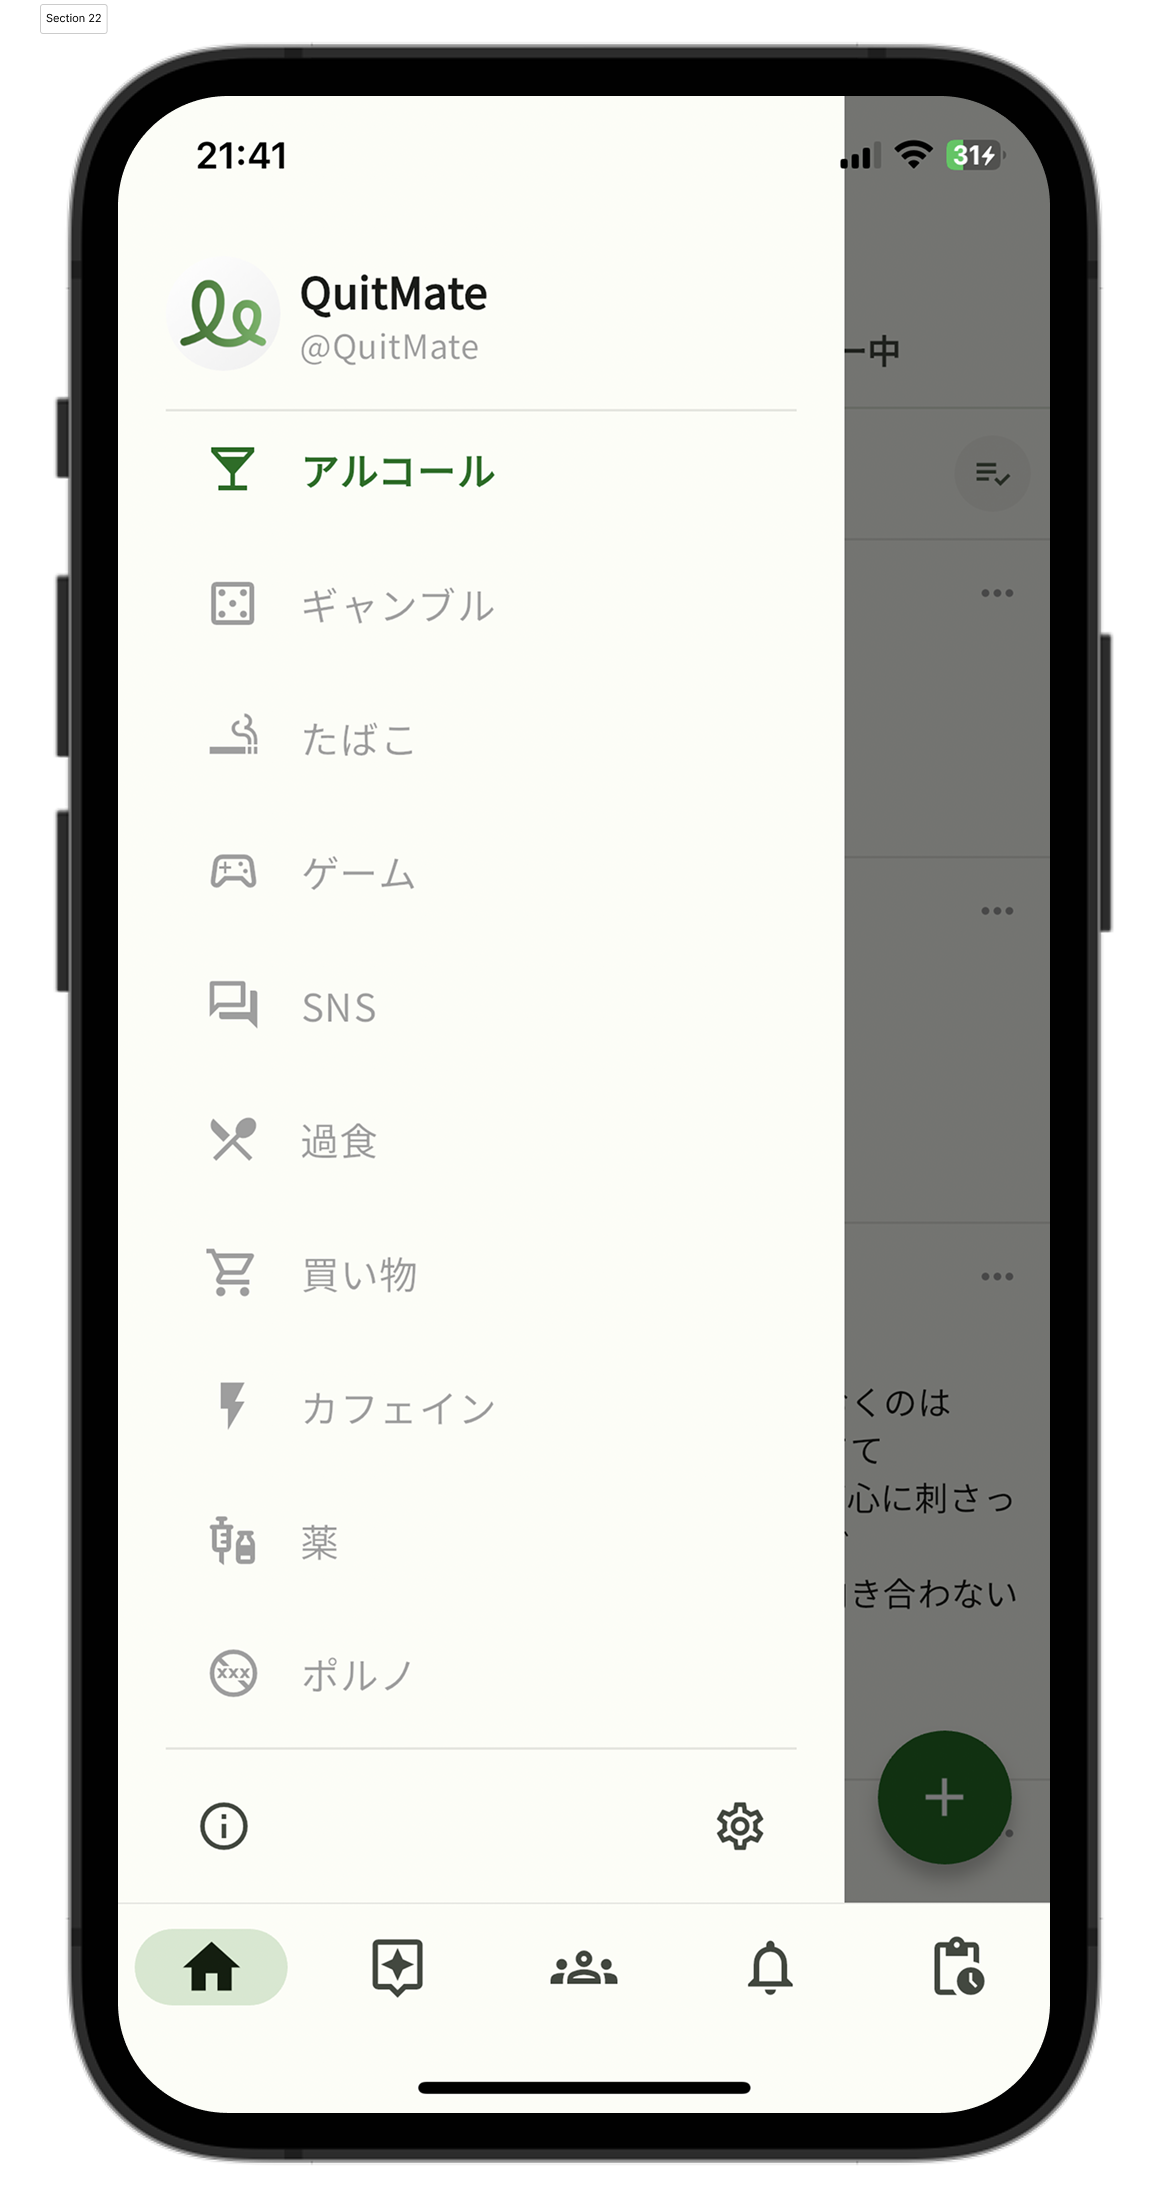
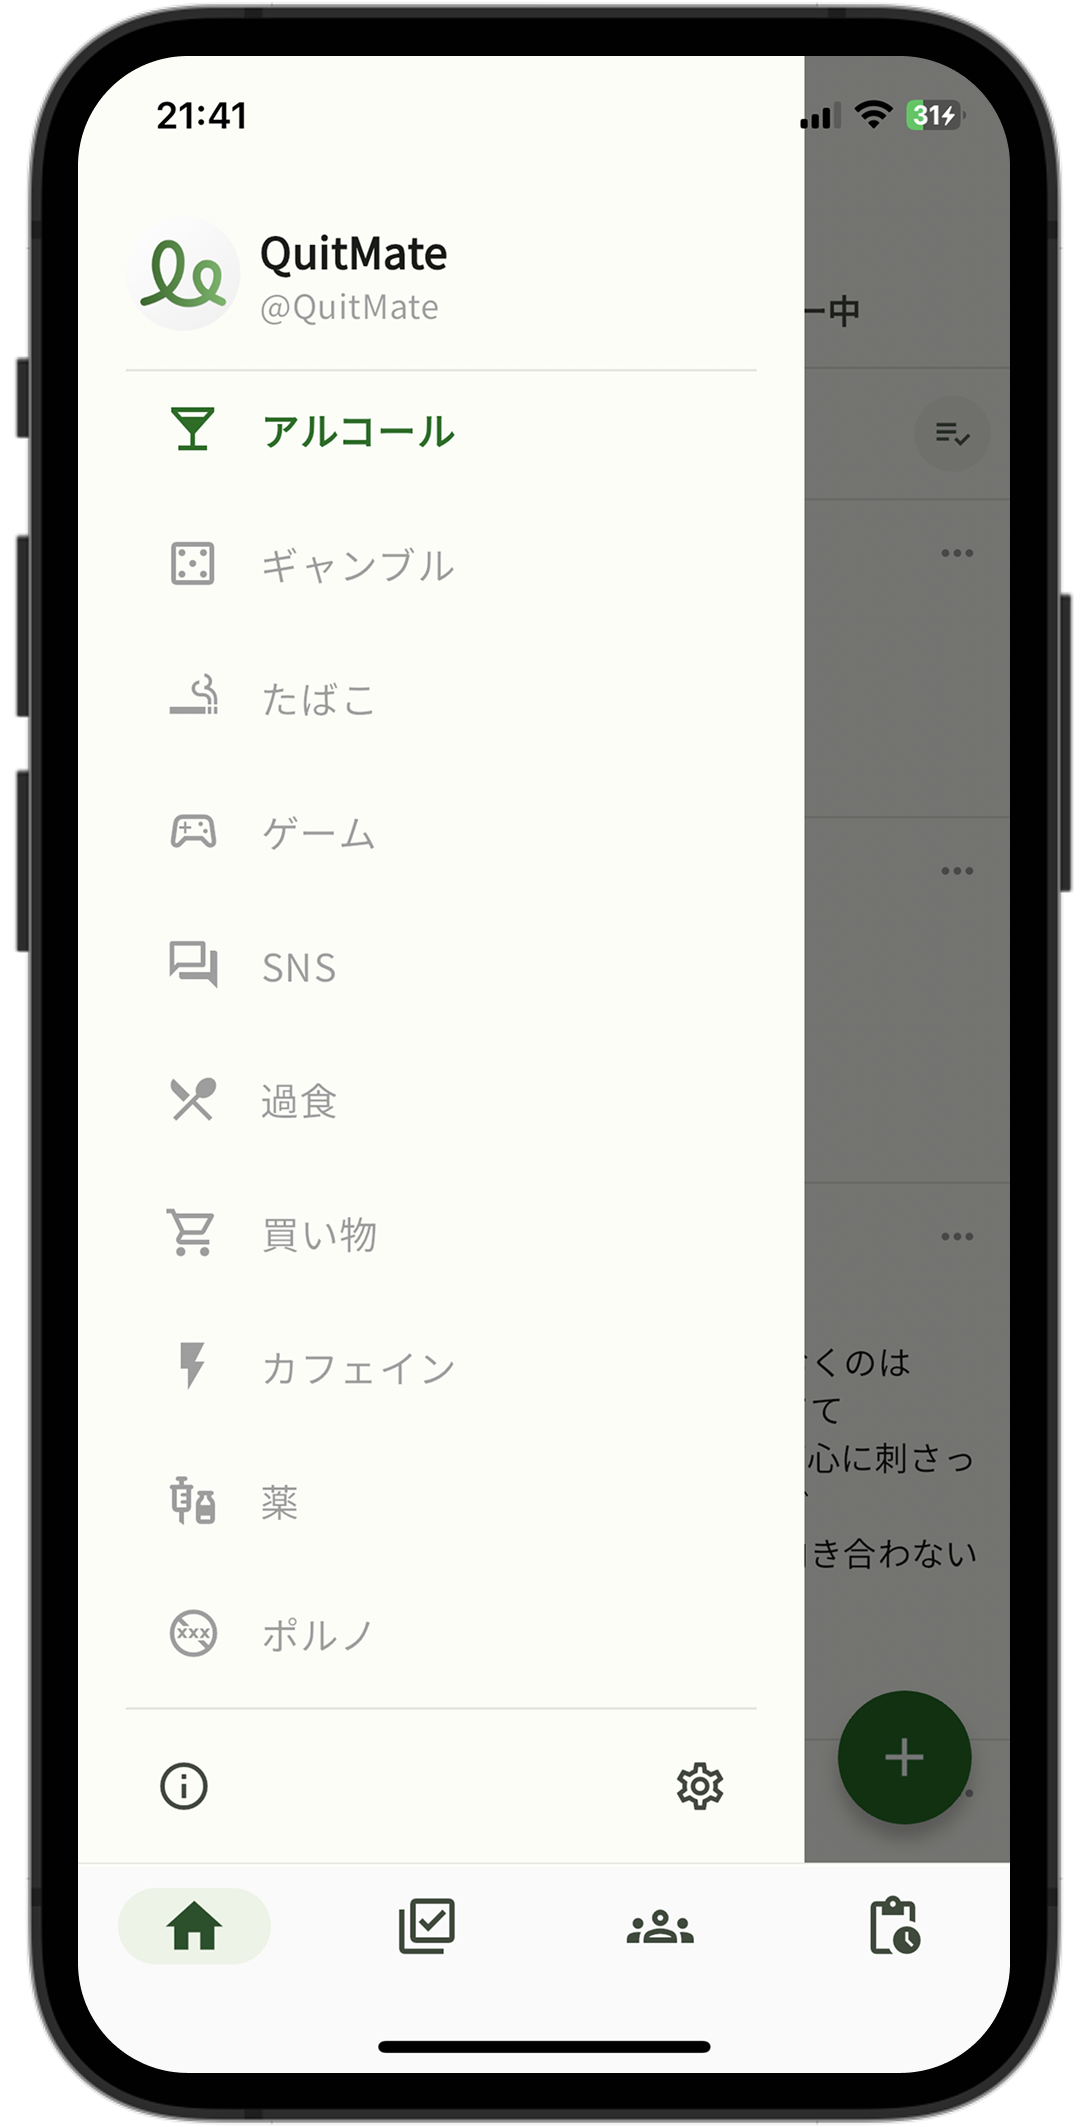
chore: スクリーンショット調整

diff --git a/apps/lp/src/components/sections/screenshot-viewer.tsx b/apps/lp/src/components/sections/screenshot-viewer.tsx
@@ -1,0 +1,168 @@
+"use client";
+
+import Image from "next/image";
+import { useState, useEffect, useRef } from "react";
+
+type Screenshot = {
+  src: string;
+  alt: string;
+};
+
+type ScreenshotViewerProps = {
+  screenshots: Screenshot[];
+  className?: string;
+};
+
+export const ScreenshotViewer = ({
+  screenshots,
+  className = "",
+}: ScreenshotViewerProps) => {
+  const [currentScreenshot, setCurrentScreenshot] = useState(0);
+  const [isMobile, setIsMobile] = useState(false);
+  const [touchStart, setTouchStart] = useState(0);
+  const [touchEnd, setTouchEnd] = useState(0);
+  const [isAnimating, setIsAnimating] = useState(false);
+  const containerRef = useRef<HTMLDivElement>(null);
+
+  // 画面サイズ検出のためのuseEffect
+  useEffect(() => {
+    const checkIfMobile = () => {
+      setIsMobile(window.innerWidth < 768);
+    };
+
+    checkIfMobile();
+    window.addEventListener("resize", checkIfMobile);
+
+    return () => {
+      window.removeEventListener("resize", checkIfMobile);
+    };
+  }, []);
+
+  const nextScreenshot = () => {
+    if (isAnimating) return;
+    setIsAnimating(true);
+    setCurrentScreenshot((prev) => (prev + 1) % screenshots.length);
+    setTimeout(() => {
+      setIsAnimating(false);
+    }, 300);
+  };
+
+  const prevScreenshot = () => {
+    if (isAnimating) return;
+    setIsAnimating(true);
+    setCurrentScreenshot(
+      (prev) => (prev - 1 + screenshots.length) % screenshots.length,
+    );
+    setTimeout(() => {
+      setIsAnimating(false);
+    }, 300);
+  };
+
+  // スワイプ操作のハンドラー
+  const handleTouchStart = (e: React.TouchEvent) => {
+    setTouchStart(e.targetTouches[0].clientX);
+  };
+
+  const handleTouchMove = (e: React.TouchEvent) => {
+    setTouchEnd(e.targetTouches[0].clientX);
+  };
+
+  const handleTouchEnd = () => {
+    if (!touchStart || !touchEnd) return;
+
+    const distance = touchStart - touchEnd;
+    const minSwipeDistance = 50;
+
+    if (distance > minSwipeDistance) {
+      // 左スワイプ (次へ)
+      nextScreenshot();
+    } else if (distance < -minSwipeDistance) {
+      // 右スワイプ (前へ)
+      prevScreenshot();
+    }
+
+    setTouchStart(0);
+    setTouchEnd(0);
+  };
+
+  return (
+    <div className={`relative size-full ${className}`}>
+      <div
+        ref={containerRef}
+        className="relative size-full overflow-visible"
+        onTouchStart={handleTouchStart}
+        onTouchMove={handleTouchMove}
+        onTouchEnd={handleTouchEnd}
+      >
+        {/* スクリーンショット画像 */}
+        <Image
+          src={screenshots[currentScreenshot].src}
+          alt={screenshots[currentScreenshot].alt}
+          fill
+          className={`object-contain transition-opacity duration-300 ${isAnimating ? "opacity-80" : "opacity-100"}`}
+          priority
+        />
+
+        {/* ページインジケーター - 画像の下に配置 */}
+        <div className="absolute inset-x-0 -bottom-8 z-10 flex justify-center gap-2 py-2">
+          {screenshots.map((_, index) => (
+            <button
+              key={index}
+              className={`size-2 rounded-full shadow-sm transition-colors ${
+                index === currentScreenshot ? "bg-green-800" : "bg-gray-200"
+              }`}
+              onClick={() => {
+                setCurrentScreenshot(index);
+              }}
+              aria-label={`スクリーンショット ${String(index + 1)}を表示`}
+            />
+          ))}
+        </div>
+
+        {/* 前後ボタン - PCの場合のみ表示 */}
+        {screenshots.length > 1 && !isMobile && (
+          <>
+            <button
+              onClick={prevScreenshot}
+              className="absolute -left-2 top-1/2 z-10 flex size-10 -translate-y-1/2 items-center justify-center rounded-full bg-white text-gray-800 shadow-lg transition-all hover:bg-gray-100 active:scale-95 active:bg-gray-200"
+              aria-label="前のスクリーンショット"
+            >
+              <svg
+                xmlns="http://www.w3.org/2000/svg"
+                width="20"
+                height="20"
+                viewBox="0 0 24 24"
+                fill="none"
+                stroke="currentColor"
+                strokeWidth="2"
+                strokeLinecap="round"
+                strokeLinejoin="round"
+              >
+                <path d="M15 18l-6-6 6-6" />
+              </svg>
+            </button>
+            <button
+              onClick={nextScreenshot}
+              className="absolute -right-2 top-1/2 z-10 flex size-10 -translate-y-1/2 items-center justify-center rounded-full bg-white text-gray-800 shadow-lg transition-all hover:bg-gray-100 active:scale-95 active:bg-gray-200"
+              aria-label="次のスクリーンショット"
+            >
+              <svg
+                xmlns="http://www.w3.org/2000/svg"
+                width="20"
+                height="20"
+                viewBox="0 0 24 24"
+                fill="none"
+                stroke="currentColor"
+                strokeWidth="2"
+                strokeLinecap="round"
+                strokeLinejoin="round"
+              >
+                <path d="M9 18l6-6-6-6" />
+              </svg>
+            </button>
+          </>
+        )}
+      </div>
+    </div>
+  );
+};

diff --git a/apps/lp/src/components/sections/hero.tsx b/apps/lp/src/components/sections/hero.tsx
@@ -1,10 +1,28 @@
 "use client";
 
-import Image from "next/image";
-
+import { ScreenshotViewer } from "../sections/screenshot-viewer";
 import { StoreBadges } from "../sections/store-badge";
 
 export const Hero = () => {
+  const screenshots = [
+    {
+      src: "/images/screenshot-stories.png",
+      alt: "QuitMateアプリのストーリー画面",
+    },
+    {
+      src: "/images/screenshot-categories.png",
+      alt: "QuitMateアプリのカテゴリ画面",
+    },
+    {
+      src: "/images/screenshot-program.png",
+      alt: "QuitMateアプリのプログラム画面",
+    },
+    {
+      src: "/images/screenshot-habits.png",
+      alt: "QuitMateアプリの習慣画面",
+    },
+  ];
+
   return (
     <section className="flex items-center justify-center bg-gradient-to-b from-[#f8fbf7] to-white p-8 md:py-16">
       <div className="flex w-full max-w-5xl flex-col items-center justify-between gap-2 md:flex-row md:gap-6">
@@ -12,22 +30,16 @@ export const Hero = () => {
           <h1 className="mb-2 text-3xl font-bold leading-tight text-gray-800 md:mb-4 md:text-4xl lg:text-4xl">
             共になら、やめられる
           </h1>
-          <p className="mb-4 text-lg md:text-xl lg:text-2xl text-gray-600 md:mb-6">
-            禁酒・禁ギャンブル・禁煙・禁欲等
+          <p className="mb-4 text-lg text-gray-600 md:mb-6 md:text-xl lg:text-2xl">
+            禁酒・禁ギャンブル・禁煙・禁欲など
             <br />
             依存症を克服するための匿名SNSアプリ
           </p>
           <StoreBadges size="xl" />
         </div>
 
-        <div className="relative mt-4 h-[550px] w-full md:mt-0 md:w-[350px] lg:w-[400px]">
-          <Image
-            src="/images/screenshot-stories.png"
-            alt="QuitMateアプリのスクリーンショット"
-            fill
-            className="object-contain drop-shadow-xl"
-            priority
-          />
+        <div className="relative mt-4 h-[600px] w-full md:mt-0 md:w-[380px] lg:w-[450px]">
+          <ScreenshotViewer screenshots={screenshots} />
         </div>
       </div>
     </section>

diff --git a/apps/lp/src/components/sections/testimonials.tsx b/apps/lp/src/components/sections/testimonials.tsx
@@ -27,22 +27,22 @@ const testimonials = [
 
 export const Testimonials = () => {
   return (
-    <section className="py-20 px-6 bg-[#f8fbf7] text-center">
-      <h2 className="text-3xl md:text-4xl font-semibold mb-12 text-gray-800">
+    <section className="bg-[#f8fbf7] px-6  py-20 text-center">
+      <h2 className="mb-12 text-3xl font-semibold text-gray-800 md:text-4xl">
         QuitMateを使ってよかったこと
       </h2>
-      <div className="grid grid-cols-1 md:grid-cols-3 gap-6 max-w-6xl mx-auto">
+      <div className="mx-auto grid max-w-6xl grid-cols-1 gap-6 md:grid-cols-3">
         {testimonials.map((item, index) => (
           <Card
             key={index}
-            className="text-left h-full bg-white border-none shadow-md"
+            className="h-full border-none bg-white text-left shadow-md"
           >
             <CardContent className="p-6">
-              <div className="flex justify-center mb-4">
+              <div className="mb-4 flex justify-center">
                 {[...Array(5)].map((_, i) => (
                   <svg
                     key={i}
-                    className="w-5 h-5 text-yellow-400"
+                    className="size-5 text-yellow-400"
                     fill="currentColor"
                     viewBox="0 0 20 20"
                   >
@@ -50,13 +50,13 @@ export const Testimonials = () => {
                   </svg>
                 ))}
               </div>
-              <h3 className="text-lg font-semibold text-gray-800 mb-2">
+              <h3 className="mb-2 text-lg font-semibold text-gray-800">
                 {item.title}
               </h3>
-              <p className="text-gray-600 text-sm mb-4">
+              <p className="mb-4 text-sm text-gray-600">
                 &quot;{item.message}&quot;
               </p>
-              <p className="text-sm text-right text-gray-700 font-semibold">
+              <p className="text-right text-sm font-semibold text-gray-700">
                 — {item.name}
               </p>
             </CardContent>

diff --git a/apps/lp/src/components/layout/header.tsx b/apps/lp/src/components/layout/header.tsx
@@ -3,6 +3,7 @@
 import { Menu, X } from "lucide-react";
 import Link from "next/link";
 import { useState } from "react";
+
 import { Logo } from "../sections/logo";
 
 export const Header = () => {

diff --git a/apps/lp/src/components/sections/logo.tsx b/apps/lp/src/components/sections/logo.tsx
@@ -1,5 +1,6 @@
 import Image from "next/image";
 import Link from "next/link";
+
 import { AppConfig } from "../../app-config";
 
 type LogoProps = {
